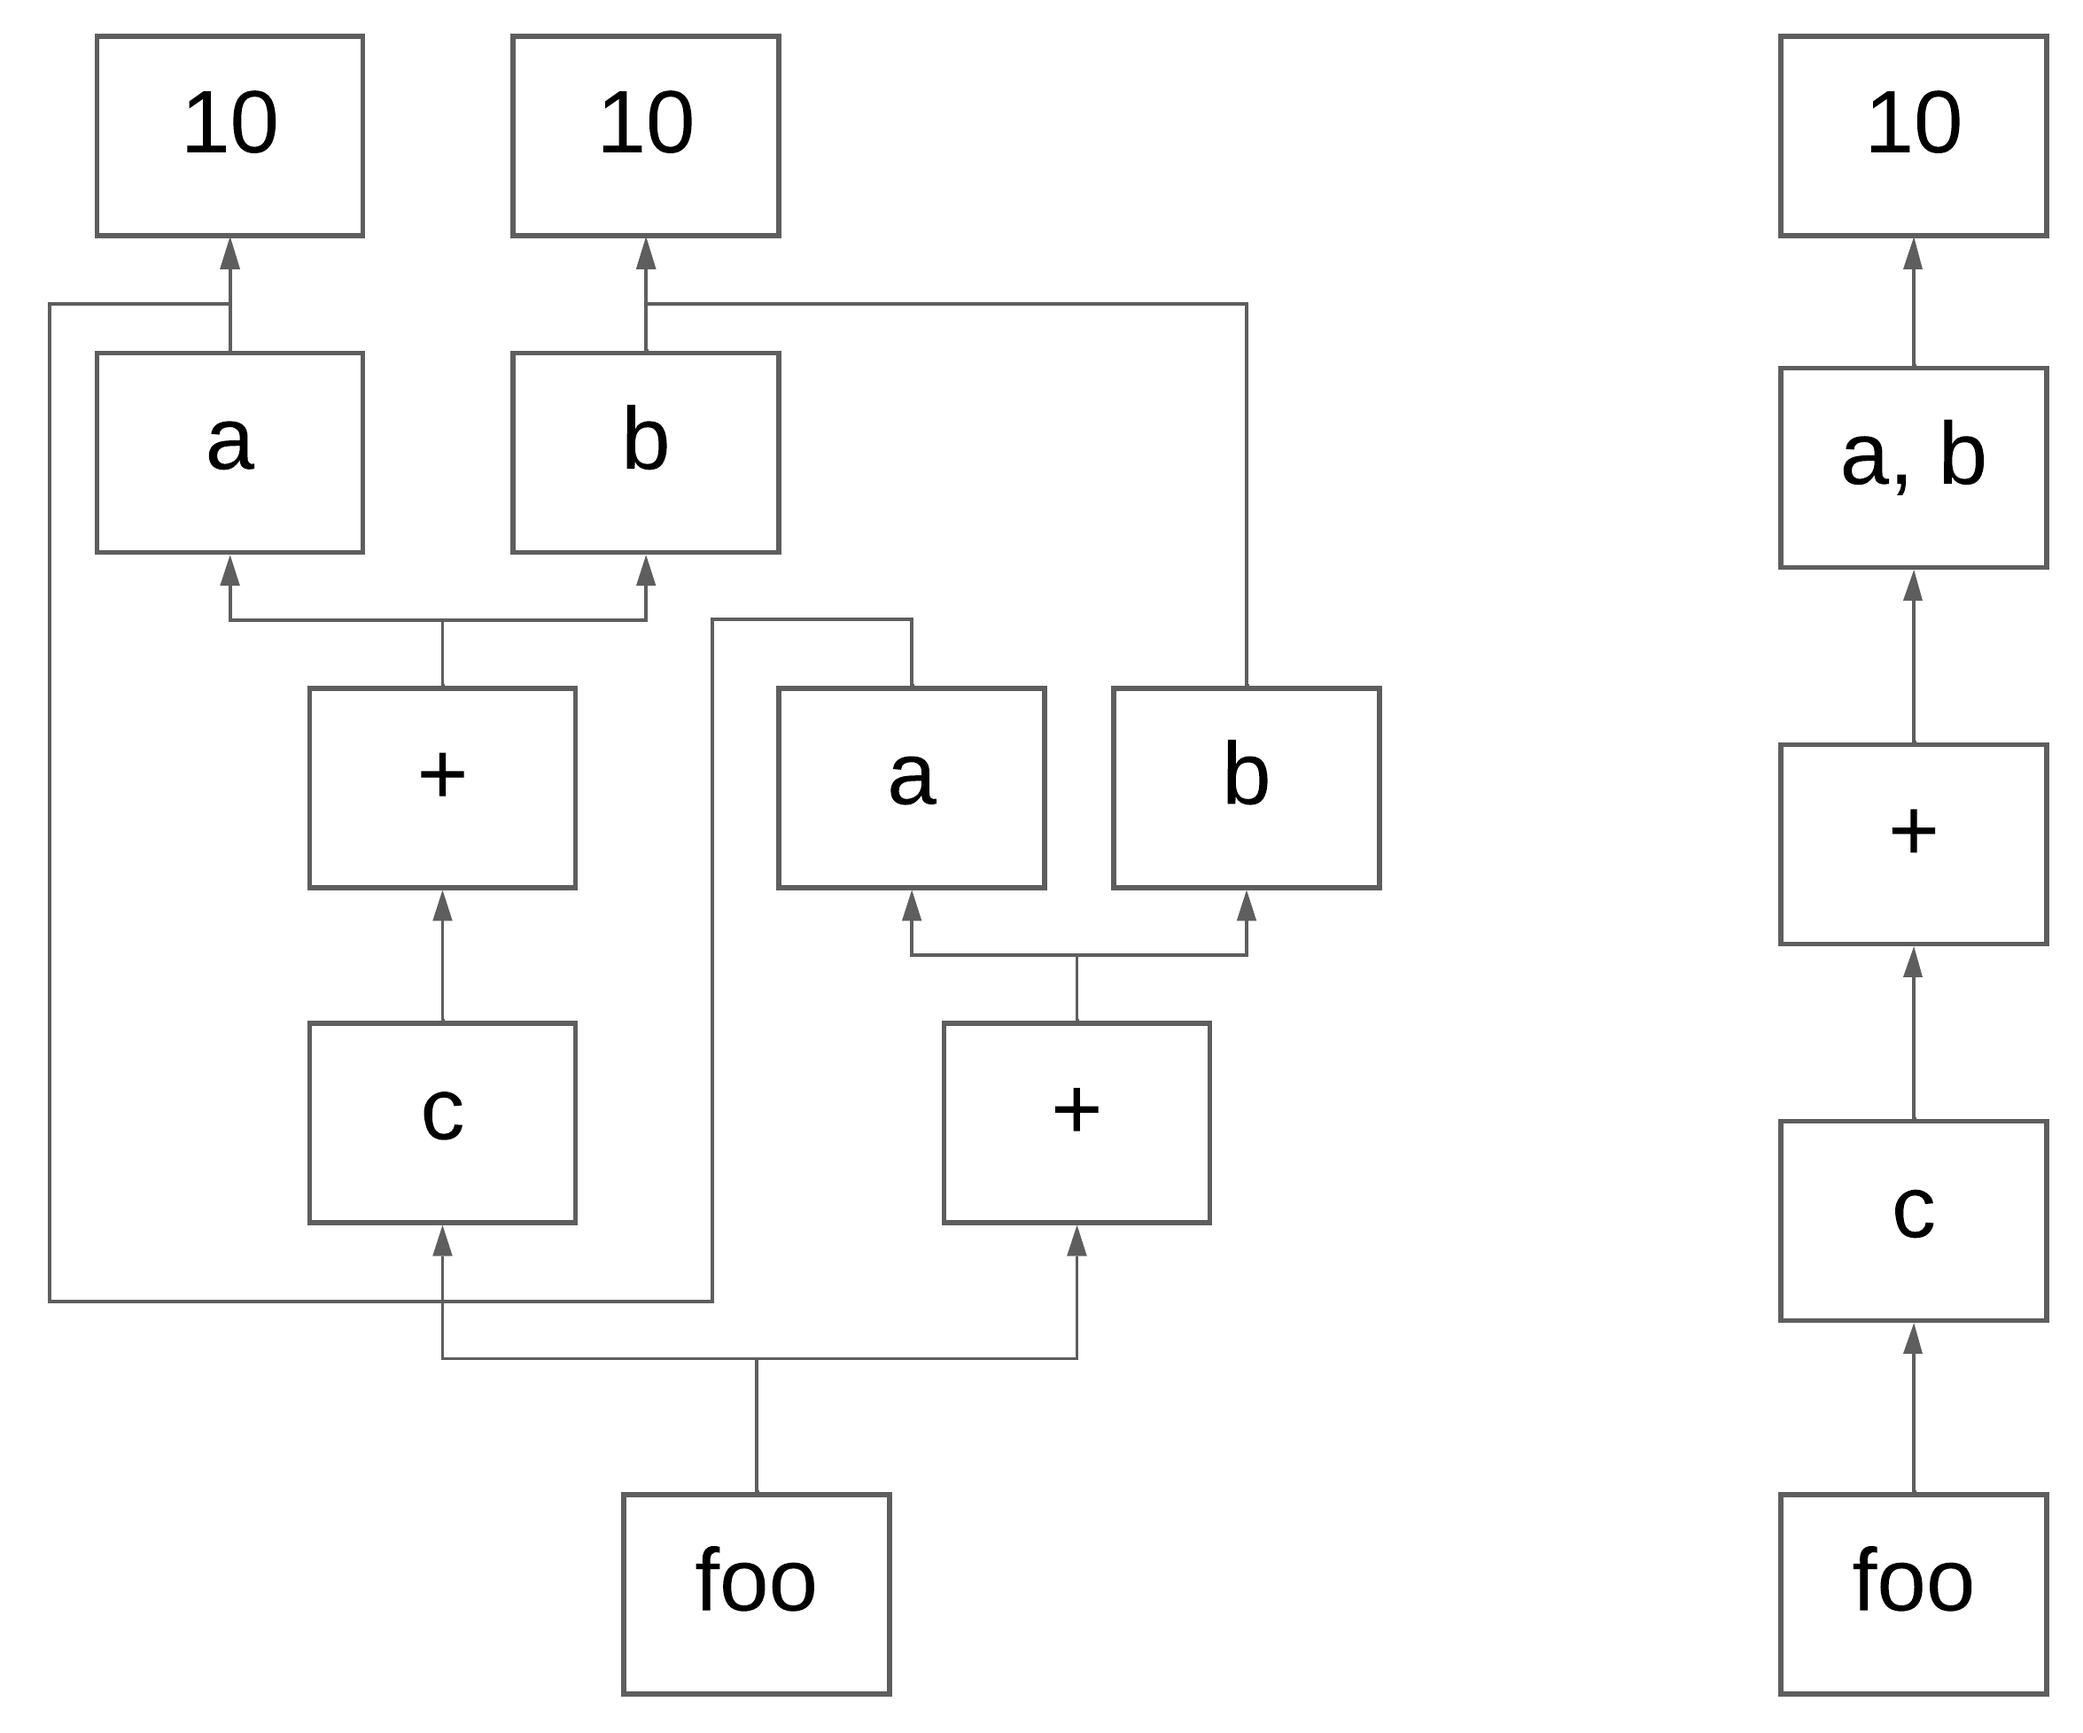
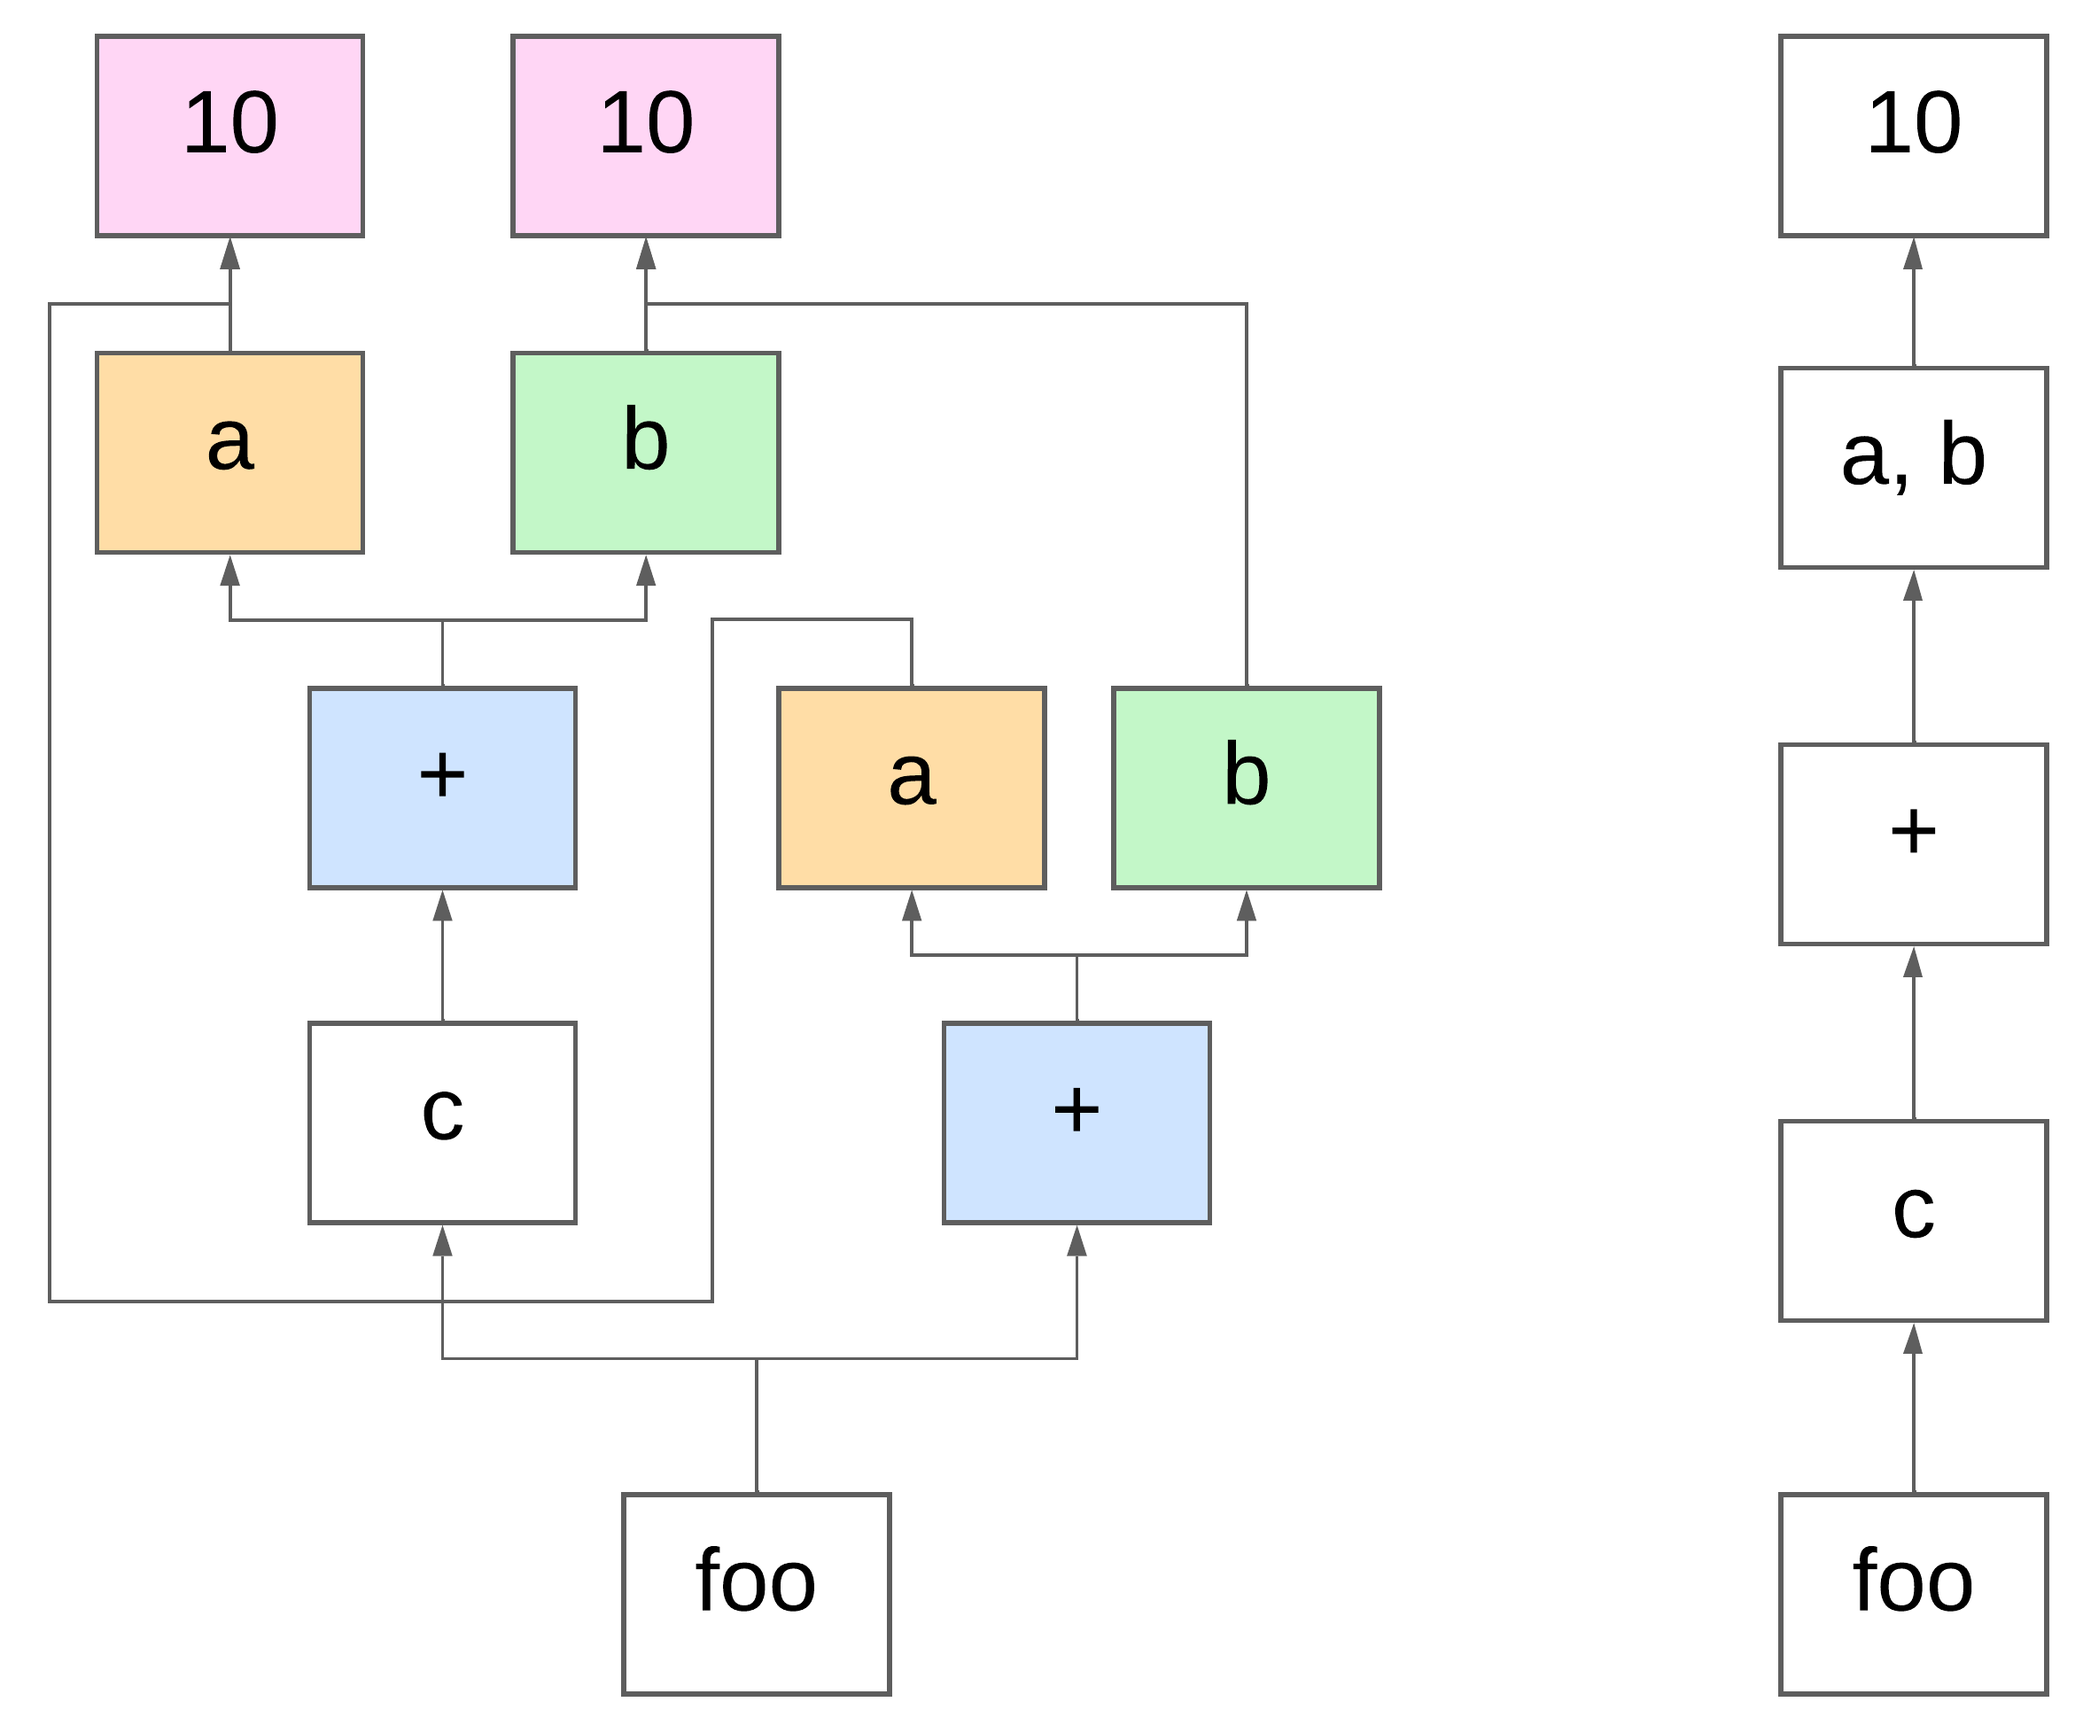
Allias usage in DAG

diff --git a/src/asm/x86_64_gnu_nasm/x86_64_datagen.c b/src/asm/x86_64_gnu_nasm/x86_64_datagen.c
@@ -1,15 +1,26 @@
 #include <asm/x86_64_gnu_nasm/x86_64_asmgen.h>
 
-int x86_64_generate_data(sym_table_t* smt, FILE* output) {
+static int _allocate_data(int glob, int ro, sym_table_t* smt, FILE* output) {
     map_iter_t it;
-    
-    fprintf(output, "section .data\n");
-
     map_iter_init(&smt->v.vartb, &it);
     variable_info_t* vi;
     while (map_iter_next(&it, (void**)&vi)) {
-        if (!vi->glob || vi->type == ARRAY_TYPE_TOKEN || vi->type == STR_TYPE_TOKEN) continue;
-        token_t tmptkn = { .t_type = vi->type, .flags = { .ptr = vi->ptr, .ro = vi->ro, .glob = vi->glob } };
+        if (!vi->glob && glob || !vi->ro && ro) continue;
+        if (vi->type == ARRAY_TYPE_TOKEN || vi->type == STR_TYPE_TOKEN) {
+            array_info_t ai;
+            if (!ARTB_get_info(vi->v_id, &ai, &smt->a)) continue;
+            token_t tmptkn = { .t_type = vi->type, .flags = { .ptr = vi->ptr, .ro = vi->ro } };
+            switch (TKN_variable_bitness(&tmptkn, 1)) {
+                case 64: fprintf(output, "%s resq %s\n", vi->name, ai.size); break;
+                case 32: fprintf(output, "%s resd %s\n", vi->name, ai.size); break;
+                case 16: fprintf(output, "%s resw %s\n", vi->name, ai.size); break;
+                default: fprintf(output, "%s resb %s\n", vi->name, ai.size); break;
+            }
+
+            continue;
+        }
+
+        token_t tmptkn = { .t_type = vi->type, .flags = { .ptr = vi->ptr, .ro = vi->ro } };
         switch (TKN_variable_bitness(&tmptkn, 1)) {
             case 64: fprintf(output, "%s dq 0\n", vi->name); break;
             case 32: fprintf(output, "%s dd 0\n", vi->name); break;
@@ -18,7 +29,17 @@ int x86_64_generate_data(sym_table_t* smt, FILE* output) {
         }
     }
 
+    return 1;
+}
+
+int x86_64_generate_data(sym_table_t* smt, FILE* output) {
+    map_iter_t it;
+    
+    fprintf(output, "section .data\n");
+    _allocate_data(1, 0, smt, output);
+
     fprintf(output, "section .rodata\n");
+    _allocate_data(0, 1, smt, output);
     
     map_iter_init(&smt->s.strtb, &it);
     str_info_t* si;

diff --git a/src/hir/dag/daggen.c b/src/hir/dag/daggen.c
@@ -8,7 +8,7 @@ static int _register_node(dag_ctx_t* dctx, dag_node_t* dst, dag_node_t* src1, da
     return 1;
 }
 
-int HIR_DAG_generate(cfg_ctx_t* cctx, dag_ctx_t* dctx) {
+int HIR_DAG_generate(cfg_ctx_t* cctx, dag_ctx_t* dctx, sym_table_t* smt) {
     list_iter_t fit;
     list_iter_hinit(&cctx->funcs, &fit);
     cfg_func_t* fb;
@@ -67,12 +67,18 @@ int HIR_DAG_generate(cfg_ctx_t* cctx, dag_ctx_t* dctx) {
                         dag_node_t* existed;
                         if (!map_get(&dctx->groups, dst->hash, (void**)&existed)) _register_node(dctx, dst, src1, src2);
                         else {
-                            if (!set_has(&dst->home->dom, existed->home)) _register_node(dctx, dst, src1, src2);
+                            set_t owners;
+                            if (
+                                !set_has(&dst->home->dom, existed->home) ||
+                                (ALLIAS_get_owners(existed->src->storage.var.v_id, &owners, &smt->m) && set_size(&owners))
+                            ) _register_node(dctx, dst, src1, src2);
                             else {
                                 map_remove(&dctx->dag, HIR_hash_subject(dst->src));
                                 HIR_DAG_unload_node(dst);
                                 set_add(&existed->link, (void*)HIR_hash_subject(hh->farg));
                             }
+
+                            set_free_force(&owners);
                         }
 
                         break;

diff --git a/tests/test_asm.c b/tests/test_asm.c
@@ -13,6 +13,8 @@
 #include <hir/ssa.h>
 #include <hir/dfg.h>
 #include <hir/ra.h>
+#include <hir/dag.h>
+#include <hir/opt/hir_cleaner.h>
 
 #include <lir/lirgen.h>
 #include <lir/x86_64_gnu_nasm/x86_64_lirgen.h>
@@ -22,6 +24,7 @@
 
 #include "ast_helper.h"
 #include "hir_helper.h"
+#include "dag_helper.h"
 #include "lir_helper.h"
 #include "ral_helper.h"
 #include "symtb_helper.h"
@@ -69,10 +72,18 @@ int main(int argc, char* argv[]) {
     HIR_SSA_insert_phi(&cfgctx, &smt);
     HIR_SSA_rename(&cfgctx, &ssactx, &smt);
 
+    dag_ctx_t dagctx;
+    map_init(&dagctx.dag);
+    map_init(&dagctx.groups);
+    HIR_DAG_generate(&cfgctx, &dagctx);
+    dump_dag_dot(&dagctx, &smt);
+    HIR_DAG_CFG_rebuild(&cfgctx, &dagctx);
+    HIR_CLN_remove_unused_variables(&cfgctx);
+
     HIR_DFG_collect_defs(&cfgctx);
     HIR_DFG_collect_uses(&cfgctx);
     HIR_DFG_compute_inout(&cfgctx);
-    HIR_DFG_make_allias(&cfgctx, &smt);
+    HIR_CFG_make_allias(&cfgctx, &smt);
     HIR_DFG_create_deall(&cfgctx, &smt);
 
     cfg_print(&cfgctx);
@@ -111,6 +122,7 @@ int main(int argc, char* argv[]) {
 
     print_symtab(&smt);
 
+    HIR_DAG_unload(&dagctx);
     HIR_CFG_unload(&cfgctx);
     HIR_unload_blocks(hirctx.h);
     LIR_unload_blocks(lirctx.h);

diff --git a/tests/test_dfg.c b/tests/test_dfg.c
@@ -6,9 +6,9 @@
 #include <ast/syntax.h>
 #include <hir/hirgen.h>
 #include <hir/hirgens/hirgens.h>
-#include <hir/opt/cfg.h>
-#include <hir/opt/ssa.h>
-#include <hir/opt/dfg.h>
+#include <hir/cfg.h>
+#include <hir/ssa.h>
+#include <hir/dfg.h>
 #include "ast_helper.h"
 #include "hir_helper.h"
 #include "symtb_helper.h"
@@ -58,11 +58,11 @@ int main(int argc, char* argv[]) {
     ssa_ctx_t ssactx;
     HIR_SSA_insert_phi(&cfgctx, &smt);
     HIR_SSA_rename(&cfgctx, &ssactx, &smt);
+    HIR_CFG_make_allias(&cfgctx, &smt);
 
     HIR_DFG_collect_defs(&cfgctx);
     HIR_DFG_collect_uses(&cfgctx);
     HIR_DFG_compute_inout(&cfgctx);
-    HIR_DFG_make_allias(&cfgctx, &smt);
 
     cfg_print(&cfgctx);
 

diff --git a/src/hir/cfg/allias.c b/src/hir/cfg/allias.c
@@ -2,7 +2,7 @@
 allias.c - Track ownership of address to cell in memory
 */
 
-#include <hir/dfg.h>
+#include <hir/cfg.h>
 
 static int _mark_allias(long v_id, long owner_id, allias_map_t* ctx) {
     set_t owners;
@@ -48,7 +48,7 @@ int _mark_copies(long owner_id, long owned_id, cfg_ctx_t* cctx, sym_table_t* smt
     return 1;
 }
 
-int HIR_DFG_make_allias(cfg_ctx_t* cctx, sym_table_t* smt) {
+int HIR_CFG_make_allias(cfg_ctx_t* cctx, sym_table_t* smt) {
     list_iter_t fit;
     list_iter_hinit(&cctx->funcs, &fit);
     cfg_func_t* fb;

diff --git a/tests/test_dag.c b/tests/test_dag.c
@@ -56,13 +56,14 @@ int main(int argc, char* argv[]) {
     ssa_ctx_t ssactx;
     HIR_SSA_insert_phi(&cfgctx, &smt);
     HIR_SSA_rename(&cfgctx, &ssactx, &smt);
+    HIR_CFG_make_allias(&cfgctx, &smt);
 
     cfg_print(&cfgctx);
 
     dag_ctx_t dagctx;
     map_init(&dagctx.dag);
     map_init(&dagctx.groups);
-    HIR_DAG_generate(&cfgctx, &dagctx);
+    HIR_DAG_generate(&cfgctx, &dagctx, &smt);
     dump_dag_dot(&dagctx, &smt);
     HIR_DAG_CFG_rebuild(&cfgctx, &dagctx);
     HIR_CLN_remove_unused_variables(&cfgctx);

diff --git a/include/hir/cfg.h b/include/hir/cfg.h
@@ -64,6 +64,7 @@ cfg_block_t* HIR_CFG_function_findlb(cfg_func_t* f, long lbid);
 cfg_block_t* CFG_create_cfg_block(hir_block_t* e);
 int CFG_insert_cfg_block(cfg_func_t* f, cfg_block_t* b, cfg_block_t* next);
 int HIR_CFG_mark_leaders(cfg_ctx_t* ctx);
+int HIR_CFG_make_allias(cfg_ctx_t* cctx, sym_table_t* smt);
 int HIR_CFG_build(hir_ctx_t* hctx, cfg_ctx_t* ctx);
 int HIR_CFG_unload(cfg_ctx_t* ctx);
 

diff --git a/include/hir/dag.h b/include/hir/dag.h
@@ -40,7 +40,7 @@ int HIR_DAG_unload(dag_ctx_t* ctx);
 #define DAG_GET_NODE(ctx, u)     HIR_DAG_get_node(ctx, u, 1)
 #define DAG_ACQUIRE_NODE(ctx, u) HIR_DAG_get_node(ctx, u, 0)
 
-int HIR_DAG_generate(cfg_ctx_t* cctx, dag_ctx_t* dctx);
+int HIR_DAG_generate(cfg_ctx_t* cctx, dag_ctx_t* dctx, sym_table_t* smt);
 int HIR_DAG_CFG_rebuild(cfg_ctx_t* cctx, dag_ctx_t* dctx);
 
 #endif

diff --git a/src/hir/dfg/deall.c b/src/hir/dfg/deall.c
@@ -37,6 +37,7 @@ int HIR_DFG_create_deall(cfg_ctx_t* cctx, sym_table_t* smt) {
                     }
                 }
 
+                set_free_force(&owners);
                 if (hasown) continue;
                 HIR_insert_block_after(HIR_create_block(HIR_VRDEALL, HIR_SUBJ_CONST(vid), NULL, NULL), cb->exit);
 

diff --git a/tests/test_lir.c b/tests/test_lir.c
@@ -80,7 +80,7 @@ int main(int argc, char* argv[]) {
     HIR_DFG_collect_defs(&cfgctx);
     HIR_DFG_collect_uses(&cfgctx);
     HIR_DFG_compute_inout(&cfgctx);
-    HIR_DFG_make_allias(&cfgctx, &smt);
+    HIR_CFG_make_allias(&cfgctx, &smt);
     HIR_DFG_create_deall(&cfgctx, &smt);
 
     cfg_print(&cfgctx);

diff --git a/tests/test_ra.c b/tests/test_ra.c
@@ -68,7 +68,7 @@ int main(int argc, char* argv[]) {
     HIR_DFG_collect_defs(&cfgctx);
     HIR_DFG_collect_uses(&cfgctx);
     HIR_DFG_compute_inout(&cfgctx);
-    HIR_DFG_make_allias(&cfgctx, &smt);
+    HIR_CFG_make_allias(&cfgctx, &smt);
     HIR_DFG_create_deall(&cfgctx, &smt);
 
     cfg_print(&cfgctx);

diff --git a/include/hir/dfg.h b/include/hir/dfg.h
@@ -8,7 +8,6 @@
 int HIR_DFG_collect_defs(cfg_ctx_t* cctx);
 int HIR_DFG_collect_uses(cfg_ctx_t* cctx);
 int HIR_DFG_compute_inout(cfg_ctx_t* cctx);
-int HIR_DFG_make_allias(cfg_ctx_t* cctx, sym_table_t* smt);
 int HIR_DFG_create_deall(cfg_ctx_t* cctx, sym_table_t* smt);
 
 #endif
